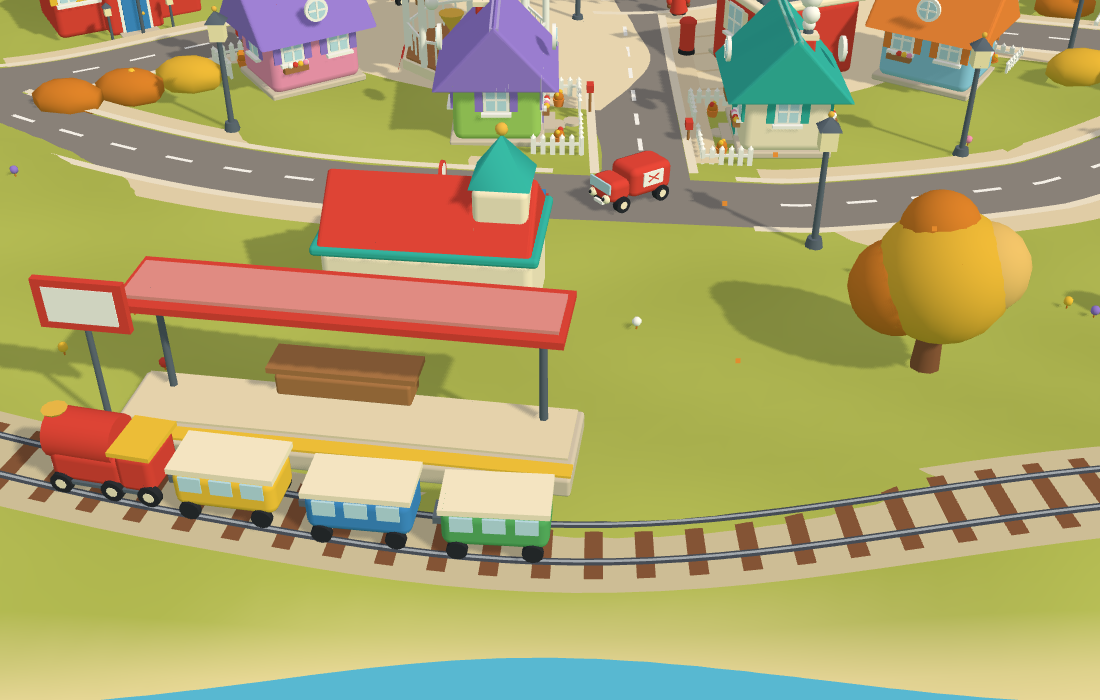
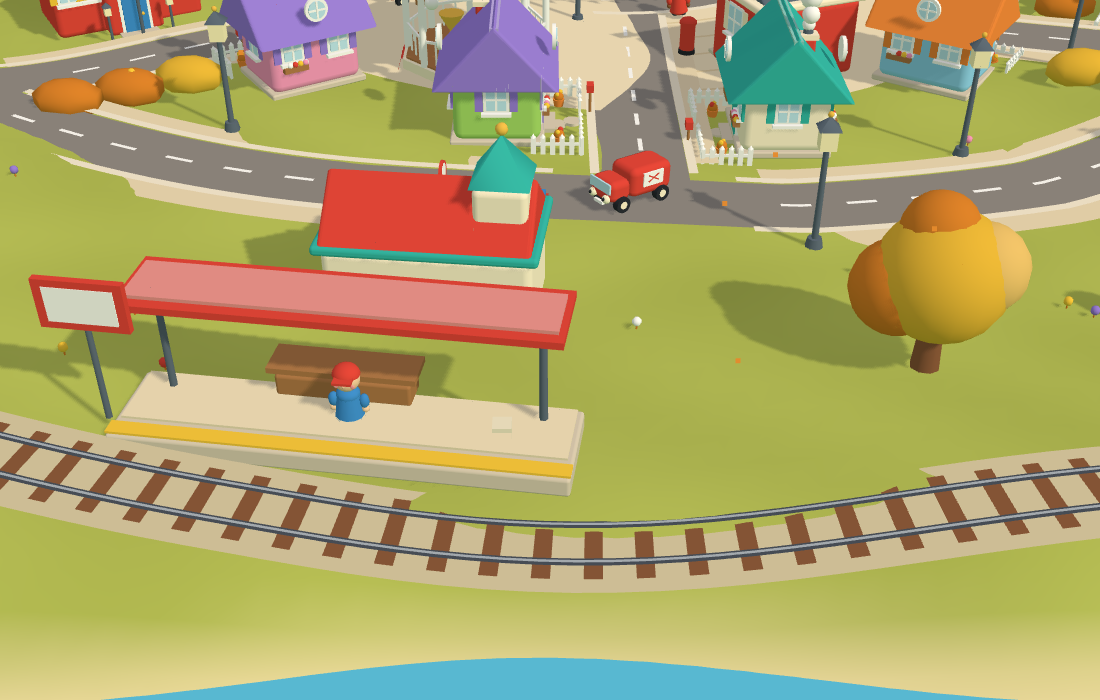
New Toy Town: the train gets work (commuters, mail, milk, bread, parcels you send) (#226)
* Toy Town: a chaotic isometric town, themed every day by the news

A new mode: a busy little isometric toy town on a slab of earth, laid
out fresh every day, where something silly is always happening. Cars
queue and honk, people walk, and chaos overlaps: burst hydrants,
runaway carts, a dog with the butcher's sausages, escaping balloons, a
cat on a roof and the fire truck that comes for it, pigeons, banana
peels, the ice cream van, escaped chickens, a giant rubber duck, a UFO.
A director camera follows the action, a ticker reports it, a tap pokes
the town, and a five-minute day ends in lit windows.

The day's theme comes from a light story in Wikipedia's In the news
(a rocket launch, a big match, a rally, fireworks, a red carpet, robots,
a zoo escape...); stories about deaths, war, attacks or disasters are
never used, and the date picks the theme otherwise.

Claude-Session: https://claude.ai/code/session_016DDzLFPb4BuxMAThu2pji2

* Toy Town: calmer pace, and days that match the news

The whole town runs at 60% speed. Up to three light stories now shape
the day, and the specific kind of story picks what happens, from 36
variants: cricket, tennis, a Grand Prix, a marathon, medals; the Moon,
a Mars rover, a comet; a polling queue; Diwali lamps and lanterns,
Christmas snow and a sleigh, Halloween ghosts and bats, a New Year
countdown, Holi colours, Eid lanterns; a concert, a prize, a red carpet;
a phone launch, robots, drones; a panda, a whale, a friendly dinosaur,
[…]

Changed region(s): [[0.0, 0.57, 0.5255, 0.81], [0.2782, 0.51, 0.34, 0.6], [0.4327, 0.6, 0.4636, 0.63]]

diff --git a/toy-town-new.html b/toy-town-new.html
@@ -25,24 +25,31 @@ canvas:active{cursor:grabbing}
 #snd{position:fixed;right:calc(12px + env(safe-area-inset-right,0px));top:calc(12px + env(safe-area-inset-top,0px));width:34px;height:34px;border:0;border-radius:50%;background:var(--paper);font-size:17px;line-height:1;cursor:pointer;padding:0}
 #seasons a{margin-left:6px;text-decoration:none;filter:grayscale(.6)}
 #seasons a.on{filter:none}
+#jobs{position:fixed;left:calc(12px + env(safe-area-inset-left,0px));top:calc(48px + env(safe-area-inset-top,0px));max-width:min(78vw,360px);padding:5px 10px;border-radius:12px;background:var(--paper);font:400 12px/1.35 Nunito,system-ui,sans-serif;cursor:pointer}
+#jobs b{display:block;font-weight:700}
+#jobs span{display:none}
+#jobs.open span{display:block}
+#toast{position:fixed;left:50%;transform:translateX(-50%);bottom:calc(120px + env(safe-area-inset-bottom,0px));max-width:min(88vw,420px);padding:8px 14px;border-radius:14px;background:var(--paper);font:600 13px/1.35 Nunito,system-ui,sans-serif;text-align:center;opacity:0;transition:opacity .3s;pointer-events:none}
+#toast.on{opacity:1}
+#card #send{position:static;width:auto;height:auto;margin-top:6px;padding:5px 10px;border-radius:10px;background:#ffd54a;color:#3c4654;font:700 12px/1.2 Nunito,system-ui,sans-serif}
 #fail{position:fixed;inset:0;display:none;align-items:center;justify-content:center;padding:24px;text-align:center;background:#bfe9fb;line-height:1.6}
 #fail small{opacity:.75}
-html.ui-off #snd,html.ui-off #chip,html.ui-off #hint,html.ui-off #story,html.ui-off #card{display:none}
+html.ui-off #jobs,html.ui-off #toast,html.ui-off #snd,html.ui-off #chip,html.ui-off #hint,html.ui-off #story,html.ui-off #card{display:none}
 </style>
-<script type="importmap" data-stamp="17ce2a20fb">
+<script type="importmap" data-stamp="2a83b4c253">
 {"imports":{
   "three":"https://cdn.jsdelivr.net/npm/three@0.187.0/build/three.module.js",
   "three/addons/":"https://cdn.jsdelivr.net/npm/three@0.187.0/examples/jsm/",
-  "./assets/town2/build.mjs":"./assets/town2/build.mjs?v=17ce2a20fb",
-  "./assets/town2/curve.mjs":"./assets/town2/curve.mjs?v=17ce2a20fb",
-  "./assets/town2/def.mjs":"./assets/town2/def.mjs?v=17ce2a20fb",
-  "./assets/town2/graph.mjs":"./assets/town2/graph.mjs?v=17ce2a20fb",
-  "./assets/town2/inspect.mjs":"./assets/town2/inspect.mjs?v=17ce2a20fb",
-  "./assets/town2/sim.mjs":"./assets/town2/sim.mjs?v=17ce2a20fb",
-  "./assets/town2/sky.mjs":"./assets/town2/sky.mjs?v=17ce2a20fb",
-  "./assets/town2/sound.mjs":"./assets/town2/sound.mjs?v=17ce2a20fb",
-  "./assets/town2/stories.mjs":"./assets/town2/stories.mjs?v=17ce2a20fb",
-  "./assets/town2/weather.mjs":"./assets/town2/weather.mjs?v=17ce2a20fb"
+  "./assets/town2/build.mjs":"./assets/town2/build.mjs?v=2a83b4c253",
+  "./assets/town2/curve.mjs":"./assets/town2/curve.mjs?v=2a83b4c253",
+  "./assets/town2/def.mjs":"./assets/town2/def.mjs?v=2a83b4c253",
+  "./assets/town2/graph.mjs":"./assets/town2/graph.mjs?v=2a83b4c253",
+  "./assets/town2/inspect.mjs":"./assets/town2/inspect.mjs?v=2a83b4c253",
+  "./assets/town2/sim.mjs":"./assets/town2/sim.mjs?v=2a83b4c253",
+  "./assets/town2/sky.mjs":"./assets/town2/sky.mjs?v=2a83b4c253",
+  "./assets/town2/sound.mjs":"./assets/town2/sound.mjs?v=2a83b4c253",
+  "./assets/town2/stories.mjs":"./assets/town2/stories.mjs?v=2a83b4c253",
+  "./assets/town2/weather.mjs":"./assets/town2/weather.mjs?v=2a83b4c253"
 }}
 </script>
 </head>
@@ -51,12 +58,14 @@ html.ui-off #snd,html.ui-off #chip,html.ui-off #hint,html.ui-off #story,html.ui-
 <div id="chip">Toy Town · new build preview<a href="toy-town.html">current town</a><span id="seasons"></span></div>
 <button id="snd" aria-label="Sound" aria-pressed="false" title="Sound off">🔇</button>
 <div id="story" aria-live="polite"></div>
-<div id="card" aria-live="polite"><button aria-label="Close">×</button><b></b><div></div></div>
+<div id="card" aria-live="polite"><button aria-label="Close">×</button><b></b><div></div><button id="send" hidden>Send a parcel from here…</button></div>
+<div id="jobs" title="Tap to open or close"></div>
+<div id="toast" aria-live="polite"></div>
 <div id="hint">Tap anyone or anything · drag to explore · pinch or scroll to zoom · twist (or right-drag, Q/E) to turn</div>
 <div id="fail"><div>The new town could not start.<br><a href="toy-town.html">Open the current town</a>, or try a hard refresh (Ctrl+F5).<br><small id="why"></small><br><small>If it mentions WebGL, turn on hardware acceleration in the browser's settings (in Edge: edge://settings/system).</small></div></div>
 <script>if(/[?&]clean=1\b/.test(location.search))document.documentElement.classList.add('ui-off');</script>
 <script type="module">
-  import('./assets/town2/main.mjs?v=17ce2a20fb').catch(e => { console.error(e); document.getElementById('why').textContent = (e && (e.name + ': ' + e.message)) || String(e); document.getElementById('fail').style.display = 'flex'; });
+  import('./assets/town2/main.mjs?v=2a83b4c253').catch(e => { console.error(e); document.getElementById('why').textContent = (e && (e.name + ': ' + e.message)) || String(e); document.getElementById('fail').style.display = 'flex'; });
 </script>
 </body>
 </html>

diff --git a/TOY_TOWN_NEW_SPEC.md b/TOY_TOWN_NEW_SPEC.md
@@ -18,6 +18,7 @@ log a START entry before touching code, a DONE entry after, no force pushes).
 | 5 | Day and night, weather, small stories, the daily-news staging | **Done** (no sound, no tapping on things, no lamplighter figure: lanterns just glow) |
 | 6 | Phone performance pass, then make it the default town | Adaptive resolution **done**; measuring on a real phone and the switch are **open** (the owner decides the switch) |
 | 7 | A bigger city: 8 spokes and an outer ring road, a railway loop round the whole town with a four-car train and stations, buildings at 0.8 scale, 30 buildings and 26 residents, vehicles on a lane network | **Done** |
+| 8 | The train gets work: commuters ride between stations, a goods wagon carries mail, milk and bread (picked up, walked to a platform, carried, collected, delivered), and the owner can send a parcel and watch a work board | **Done** |
 
 It is live at `toy-town-new.html` (or `toy-town.html?town=new`, or `index.html?town=new#toy-town`). The current
 town is untouched and stays the default until the owner approves the switch.
@@ -135,6 +136,13 @@ the stamp is stale. If the page cannot start, its panel now shows the real error
    verges as one `InstancedMesh`; each appears at its own wetness and grows as the ground gets wetter. There are none in winter (the rain is snow).
 14. **Determinism.** `createSim(seed)` gives the same town life for the same seed and step sequence.
 
+### Freight and passengers (sim.mjs, tested)
+
+- **Cargo** `{id, kind: mail|milk|bread|parcel, from, to, originStation, destStation, state: ready|carried|station|train, holder, direct}`. Templates live in `def.FREIGHT` (what, from where, to where, which hours). `stationOf(id)` is the platform nearest by walking. If two buildings share a station, or are under 12 units apart on foot, the carrier just walks it over (`direct`).
+- **Chain**: the nearest idle resident picks it up (errand `pickup:ID`), walks to the origin platform (`station:ID`: it waits there), the train takes it when it stops (wagon holds `train.wagon`), unloads at the destination station, the nearest idle resident collects it (`pickup:ID` at the platform) and `deliver:ID` at the door. Carriers hurry (x1.8) and are exempt from the walker cap; anybody going to bed with work in hand calls the job off (counted in `freightStats.cancelled`; the goal is 0). Anything older than 900 s is dropped.
+- **Passengers**: round entries `['platform:central', 0, 'ride:harbour']` (and stories such as `harbourtrip`, `milltrip`, `schooltrip`) wait on the platform (`onPlatform`, standing, not on the road), board when the train stops there (also while it stands there), ride on the coaches (`state: 'riding'`, at most `train.seats`) and step off at their stop. Platform spots are `'platform:<stationId>'` in `graph.doors`. Nobody waiting on a platform is given other errands.
+- **Owner**: `sendParcel(from, to)` makes a parcel job (button on a building's card, then tap the destination); `freightStats` and `freightLog` feed the work board.
+
 ## 5. Art rules
 
 - Fat, rounded, slightly wonky. No sharp corners: `bag.box` is a rounded box; roofs overhang.
@@ -165,6 +173,7 @@ spheres 8; keep that discipline (the first version was 1.05 M triangles from 3-s
 - `sim`, `scene`, `camera`, `renderer`, `view`
 - `info()` → `{calls, triangles, residentsOut, clock, pixelRatio, story, rain, wet, lampsLit, season}`
 - `tapAt(clientX, clientY)`, `selected()`, `select(obj|null)`, `project(x, z, y)` → client coordinates of a ground point
+- `trainPos()` (head of the train), `sendParcel(from, to)`, `jobsText()` (the work board text); `info()` also has `delivered, cargoNow, riders`
 - `season`, `sound` (`enabled`, `started`, `toggle()`); `?season=spring|summer|autumn|winter`
 - `setHour(h)`, `setWeather('rain'|'clear'|..., seconds)`; `?h=<hour>` starts at an hour, `?news=0` turns the news staging off, `?tune=0` turns the adaptive resolution off
 - `look(x, z, dist, yaw)` puts the camera there and renders
@@ -196,7 +205,7 @@ visual step uploads `new-town-*.png` (wide, square, high street, cottage lane, w
 
 ## 9. Known gaps
 
-- Nobody boards the train yet (it is empty), and pedestrians do not sit on the benches. Sound has not been heard by a person yet: the levels are my guesses and only the code path was exercised.
+- Passengers and goods ride, but nobody is drawn inside the coaches in detail (riders are small figures on the seats), parcels are only from building to building, and pedestrians do not sit on the benches. Sound has not been heard by a person yet: the levels are my guesses and only the code path was exercised.
 - Adaptive resolution (steps the pixel ratio down after 2 s under ~24 fps, and drops the shadow when already at 1.0) has not been measured on a real phone.
 - Vehicles cannot overtake, so a late one can queue behind a slow tractor.
 - Story captions are English text from a data file; the headline text is only ever shown with `textContent`.

diff --git a/README.md b/README.md
@@ -118,7 +118,7 @@ People no longer walk on the river: every walking leg (events, gatherings, whims
 
 **Faster, same picture.** A profile of the merged city showed about 6,800 draw calls and 3.4 M triangles per frame. The static batcher now bakes plain painted colours into vertex colours (one shared material per surface finish), residents, cars and bicycles merge their plainly painted pieces inside each rigid node, and the sphere/capsule geometry used for people is trimmed (they are 20–60 px tall). Result: about 4,700 draw calls and 2.6 M triangles at the default view with a pixel-identical render (mean difference 0.05/255 against master). The simulation shares one per-frame snapshot of cars and walkers in the carriageway instead of rescanning every mover for every car (1.7 → 0.9 ms per simulated frame).
 
-**A new storybook town (preview).** `toy-town-new.html` (or `toy-town.html?town=new`) is a rebuild in a toy-box style: a roundabout square with a clock tower, a teapot café, a toy shop with a spinning top, a loaf-shaped bakery, a bandstand, a post office, a fire station, a round kiosk, a mushroom cottage and seventeen cottages, a school, a farm and barn, a garage, a harbour hut on a pier and a windmill on its hill. Eight streets run out from the square to a ring road like the spokes of a wheel, and a railway loops round the whole town with a four-car train that stops at four stations. Twenty-six named residents go door to door on the pavements by the hour (and sleep at night), keep to their own side and stop to say hello; two buses, taxis, a post van, a milk float, a tractor, an ice-cream van and an on-call fire engine travel the lanes, keeping gaps and taking turns at junctions. The day turns from dawn through dusk to a lit-window night with three lamplighters lighting the street lamps, it rains with umbrellas up and puddles, there are four seasons, two dozen small stories (some staged by the day's light headlines), you can tap anyone or anything to see what they are up to and follow them, a speaker button turns on synthesised wind, birds, crickets, rain and the clock striking, and the render resolution adapts on slow phones. The whole static town is one mesh (about 65 draw calls, 490 k triangles). The current town stays the default; `TOY_TOWN_NEW_SPEC.md` is the spec and what is still open (real-phone measurement, the switch).
+**A new storybook town (preview).** `toy-town-new.html` (or `toy-town.html?town=new`) is a rebuild in a toy-box style: a roundabout square with a clock tower, a teapot café, a toy shop with a spinning top, a loaf-shaped bakery, a bandstand, a post office, a fire station, a round kiosk, a mushroom cottage and seventeen cottages, a school, a farm and barn, a garage, a harbour hut on a pier and a windmill on its hill. Eight streets run out from the square to a ring road like the spokes of a wheel, and a railway loops round the whole town with a four-car train that stops at four stations, carries commuters and a wagon of mail, milk, bread and parcels you send yourself (tap a building, press send, tap where it should go; a work board shows what is on the move). Twenty-six named residents go door to door on the pavements by the hour (and sleep at night), keep to their own side and stop to say hello; two buses, taxis, a post van, a milk float, a tractor, an ice-cream van and an on-call fire engine travel the lanes, keeping gaps and taking turns at junctions. The day turns from dawn through dusk to a lit-window night with three lamplighters lighting the street lamps, it rains with umbrellas up and puddles, there are four seasons, two dozen small stories (some staged by the day's light headlines), you can tap anyone or anything to see what they are up to and follow them, a speaker button turns on synthesised wind, birds, crickets, rain and the clock striking, and the render resolution adapts on slow phones. The whole static town is one mesh (about 65 draw calls, 490 k triangles). The current town stays the default; `TOY_TOWN_NEW_SPEC.md` is the spec and what is still open (real-phone measurement, the switch).
 
 **Resident level of detail.** Plain residents have a second, far figure of three small meshes (body and two legs, about 350 triangles instead of about 10 000, built from the same colours; the legs still swing). Each resident is switched by its projected height on screen (far under 46 px, back to the full rig over 62 px), by one central pass over a registry, so it covers actors, ambient walkers and the city's people. At the default view 88 of 95 residents are far: draw calls 4,462 → 3,062 and triangles 2.56 M → 1.90 M, and close-ups still use the full rig. Residents with a kind, a trade, a briefcase or a hero route never switch.
 

diff --git a/TOY_TOWN_COLLAB.md b/TOY_TOWN_COLLAB.md
@@ -1181,3 +1181,13 @@ A `START` does not prohibit parallel edits. Avoid stepping on each other's uncom
 - **Fixes**: the panel now shows the actual error and what to try; every module is requested as `<file>?v=<hash>` through the page's import map (`scripts/stamp-town2.cjs` computes the hash; the logic test fails if it is stale), so stale and new code cannot mix; and the WebGL context is retried with plainer options (no antialiasing, no high-performance hint) before giving up. A hard refresh (Ctrl+F5) also fixes the stale-cache case.
 - **Not verified in Edge itself.** If it still fails there, the panel's error text and `edge://gpu` will tell us which.
 
+
+### 2026-11-10 · Claude · START (new storybook town, follow-up 5: the train gets work: passengers, mail, milk, bread, parcels you send)
+- Request (owner chose "C"): the empty train should carry things, with work assigned to it automatically and also by the owner. Plan: (1) **automatic work**: residents ride the train between stations (outings by train), and a freight system carries mail sacks, milk churns and baskets of bread from where they are made to where they are needed (a resident picks up, walks to the station platform and puts it down; the train carries it; a resident at the far station picks it up and delivers it); (2) **assigned work**: tap a building, "Send a parcel...", tap where it goes; a small jobs board lists what is moving. Cargo is drawn as one instanced mesh (crates on platforms, in the goods wagon, in people's hands) and passengers as instanced heads in the coaches. Not touching the old town, Mushroom Island or the root `HANDOFF.md`.
+
+### 2026-11-10 · Claude · DONE (new storybook town, follow-up 5: the train gets work)
+- **Structure** (owner chose "C": the town gives the train work and the owner can add more): a freight engine in `sim.mjs` (cargo: mail from the post office, milk from the farm, bread from the bakery, plus parcels sent by the owner) and passengers who ride between stations. Chain for each job: nearest idle resident picks up, walks to the origin platform, the train carries it in a new goods wagon (fourth car), unloads at the destination station, another resident collects it and delivers to the door. Buildings under 12 units apart, or on the same station, are carried on foot. Platform spots (`platform:<id>`) are real places in the graph; commuters wait standing on the platform, board when the train stops (also while it is standing), ride as small figures on the coaches and get off at their stop. Four round residents and three stories (harbour, mill and school trips) use the train.
+- **UI**: a work board (top left, tap to expand) lists what is moving and where, with a delivered count; a building's card has "Send a parcel from here", then tap the destination; a toast says who takes it and how. The train's card says passengers, load and next stop; residents' cards say when they ride, wait or carry.
+- **Things I had to fix on the way**: jobs called off at bedtime (carriers hurry, spawn and dispatch windows end earlier, jobs are cancelled only as a last resort), carriers blocked by the 7-walker cap (exempt now), stories sending waiting commuters off the platform (excluded), people missing the train by arriving while it stood (they board during the stop).
+- **Tests**: platform validity and ride acts in rounds; two simulated days (seed 7): every cargo cell is consistent (carrier knows it, station cargo is at a station), 2+ deliveries, 2+ kinds, never over capacity, 4+ rides by 3+ people; a parcel from building to building is accepted/refused correctly. Visual test: a train carrying goods or people screenshot, 1+ delivery and a work board, a parcel sent with a real click and the toast. Budgets unchanged (about 70 draw calls, 495 k triangles in the shadow-counted figure).
+- **Not verified**: on a real phone (the toast and board sizes on a small screen, tapping the Send button); in Edge; whether the amount of work feels right (a job about every 15-25 s of daytime, in two simulated days seed 7 delivered 10 of 10, none cancelled); riders are tiny at the default zoom.
